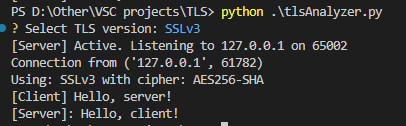
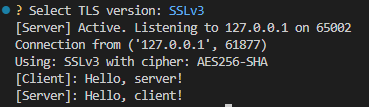
quickfix

diff --git a/server.py b/server.py
@@ -67,7 +67,7 @@ def run_server(choice):
             print(f"Using: {version} with cipher: {cipher}")
 
             data = secure_conn.recv(1024)
-            print(f"[Client] {data.decode()}")
+            print(f"[Client]: {data.decode()}")
             secure_conn.sendall(b"Hello, client!")
             secure_conn.close()
 
